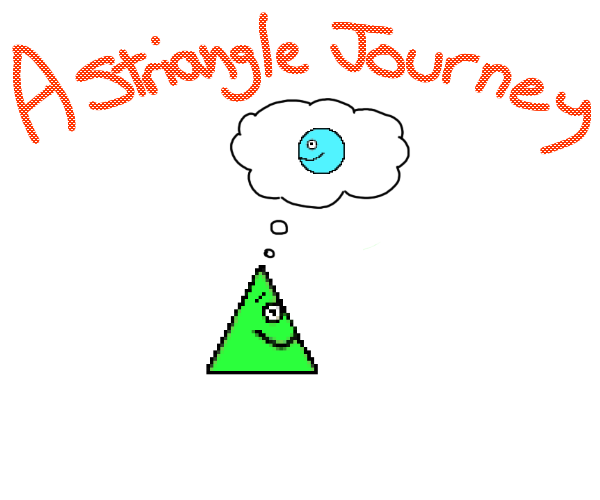
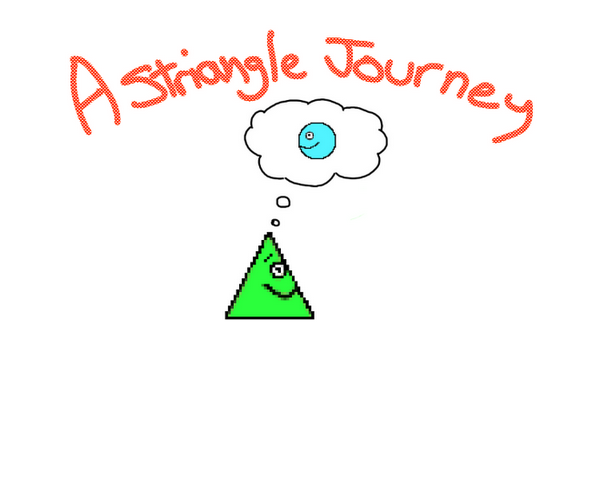
Test Marie

diff --git a/menu/Menu.py b/menu/Menu.py
@@ -1,0 +1,77 @@
+from pygame import init,display,draw
+
+from menu.Option import *
+from menu.Selector import *
+from menu.EventHandlerMenu import *
+
+from app.settings import *
+
+class Menu():
+    def __init__(self,screen,dimension):
+        self.screen = screen
+
+        # Menu center
+        self.x = dimension.left
+        self.y = dimension.top
+
+        # Menu dimension
+        self.menuWidth = dimension.width
+        self.menuHeight = dimension.height
+
+        # Menu list
+        self.optionList = []
+        self.eventHandler = EventHandlerMenu()
+
+    def mainLoop(self):
+        self.menuRunning = True
+        while self.menuRunning:
+            self.draw()
+            self.eventHandler.eventHandle(self.optionList, self.selector)
+
+    def draw(self):
+
+        count = 0
+        while count < self.optNum:
+            option = self.optionList[count]
+
+            draw.rect(self.screen, option.color1,
+                      (option.button.left, option.button.top, option.button.width, option.button.height))
+            draw.rect(self.screen, option.color2,
+                      (option.button.left, option.button.top, option.button.width, option.button.height), 7)
+            self.screen.blit(option.name, option.textPos)
+
+            count += 1
+
+        display.flip()
+
+    def addOption(self,name,method):
+        self.optionList.append(Option(name,method))
+        self.createMenu()
+
+    def createMenu(self):
+
+        # Default select opt. 1
+        self.optionList[0].isSelected = True
+        self.optionList[0].setOptionStyle()
+
+        # Mecanics.
+        self.optNum = len(self.optionList)
+        self.setOptionSize()
+        self.selector = Selector(self.optNum)
+
+    def setOptionSize(self):
+        # Button real space
+        spaceWidth = self.menuWidth
+        spaceHeight = self.menuHeight / (self.optNum)
+
+        for option in self.optionList:
+            option.button.width = spaceWidth*0.9
+            option.button.height = spaceHeight*0.7
+
+            count = self.optionList.index(option)
+            option.button.left = self.x-spaceWidth*0.45
+            option.button.top = self.y+self.menuHeight*(2*count-self.optNum)/(2*self.optNum)+spaceHeight*0.15
+            option.textPos =[self.x-option.name.get_width()*0.5,self.y+self.menuHeight*(2*count-self.optNum)/(2*self.optNum)+spaceHeight*0.45-option.name.get_height()*0.5]
+
+    def close(self):
+        self.menuRunning = False

diff --git a/app/game.py b/app/game.py
@@ -2,6 +2,8 @@ from app.drawing.drawerGame import DrawerGame
 from app.logic.logicHandler import LogicHandler
 from app.event.eventHandlerFactory import EventHandlerFactory
 
+from menu.Menu import Menu
+
 from app.player import Player
 from app.map.gamedata import GameData
 from app.settings import *
@@ -27,6 +29,12 @@ class Game():
         self.gameData.camera.add(self.player)
         self.camera = self.gameData.camera
 
+        #Menu
+        self.menuPause = Menu(self.screen, pygame.Rect(SCREEN_WIDTH / 2, SCREEN_HEIGHT / 2, SCREEN_WIDTH / 3, SCREEN_HEIGHT / 4))
+        self.menuPause.addOption('Resume',self.menuPause.close)
+        self.menuPause.addOption('Back to Main Menu', self.backToMain)
+
+
         # Handler
         self.eventHandlerFactory = EventHandlerFactory()
         self.eventHandlerFactory.setPlayer(self.player)
@@ -37,8 +45,8 @@ class Game():
         self.endState = None
 
     def mainLoop(self):
-        sceneRunning = True
-        while sceneRunning:
+        self.sceneRunning = True
+        while self.sceneRunning:
             self.eventHandlerGame.handle()
             sceneRunning = self.eventHandlerGame.sceneRunning and self.logicHandler.sceneRunning
 
@@ -63,3 +71,10 @@ class Game():
             self.mapMemory.updateMap(self.gameData)
             self.eventHandlerGame.newMap(self.gameData)
             self.logicHandler.newMap = None
+
+    def close(self):
+        self.scenerunning = False
+
+    def backToMain(self):
+        self.menuPause.close()
+        self.close()

diff --git a/main.py b/main.py
@@ -1,8 +1,8 @@
 import pygame
 import os
+from menu.Menu import Menu
 
 from app.game import Game
-from app.menu import Menu
 from app.gameOverScene import GameOverScene
 from app.settings import *
 from app.winScene import WinScene
@@ -22,14 +22,17 @@ if __name__ == '__main__':
         #icon = pygame.transform.scale(pygame.image.load(os.path.join('img', 'player_triangle_v1.png')), (TILEDIMX, TILEDIMY))
         #pygame.display.set_icon(icon)
         pygame.display.set_caption("A Striangle journey")
-    
-        # Jeu
-        menu = Menu(screen)
-        menu.mainLoop()
-        #screen = menu.screen
-    
+
         game = Game(screen)
-        game.mainLoop()
+
+        #Menu
+        titleMenu = pygame.image.load(os.path.join('img', 'titlescreen.png'))
+        screen.blit(titleMenu, (0,0))
+        menu = Menu(screen, pygame.Rect(SCREEN_WIDTH / 2, SCREEN_HEIGHT * 13 / 16, SCREEN_WIDTH / 3, SCREEN_HEIGHT * 0.25))
+        menu.addOption('Start', game.mainLoop)
+        menu.addOption('Exit', quit)
+
+        menu.mainLoop()
 
 
         if game.endState == GAME_OVER:

diff --git a/app/TitleScreen.py b/app/TitleScreen.py
@@ -1,0 +1,23 @@
+#Imports
+from pygame import init,display,Rect,mixer,time,font
+
+from menu.Menu import Menu
+from app.game import Game
+
+from app.settings import *
+
+class TitleScreen():
+    def __init__(self, screen):
+        menuOption = Menu(screen, Rect(SCREEN_WIDTH / 2, SCREEN_HEIGHT / 2, SCREEN_WIDTH / 3, SCREEN_HEIGHT * 2 / 6))
+        menuOption.addOption('Sound', game.mainLoop)
+        menuOption.addOption('Sound Effect', game.mainLoop)
+
+        menu = Menu(screen, Rect(SCREEN_WIDTH / 2, SCREEN_HEIGHT * 3 / 4, SCREEN_WIDTH / 3, SCREEN_HEIGHT * 2 / 6))
+        menu.addOption('Start', game.mainLoop)
+        menu.addOption('Option', menuOption.mainLoop)
+        menu.addOption('Credit', game.mainLoop)
+        menu.addOption('Exit', quit)
+
+        menuOption.addOption('Back', menuOption.close)
+
+        menu.mainLoop()

diff --git a/app/settings.py b/app/settings.py
@@ -4,6 +4,15 @@ WHITE = (255, 255, 255)
 GREEN = (0, 255, 0)
 RED = (255, 0, 0)
 
+BACKGROUND_COLOR = (255,255,255)
+
+COLOR_MENU_1 = (79,243,255)
+COLOR_MENU_2 = (10, 150, 150)
+
+COLOR_MENU_SELECT_1 = (255, 100, 100)
+COLOR_MENU_SELECT_2 = (255, 0, 0)
+
+
 FPS = 60
 
 GRAVITY = 1 # In pixels per frame

diff --git a/app/menu.py b/app/menu.py
@@ -9,6 +9,7 @@ class Menu(ScreenGen):
     def __init__(self, screen):
         super().__init__(screen)
 
+
         # Trucs dans le screen
         self.monFont = pygame.font.SysFont('comicsansms', 36)
         self.surface1 = self.monFont.render("PRESS SPACE TO BEGIN", False, RED)
